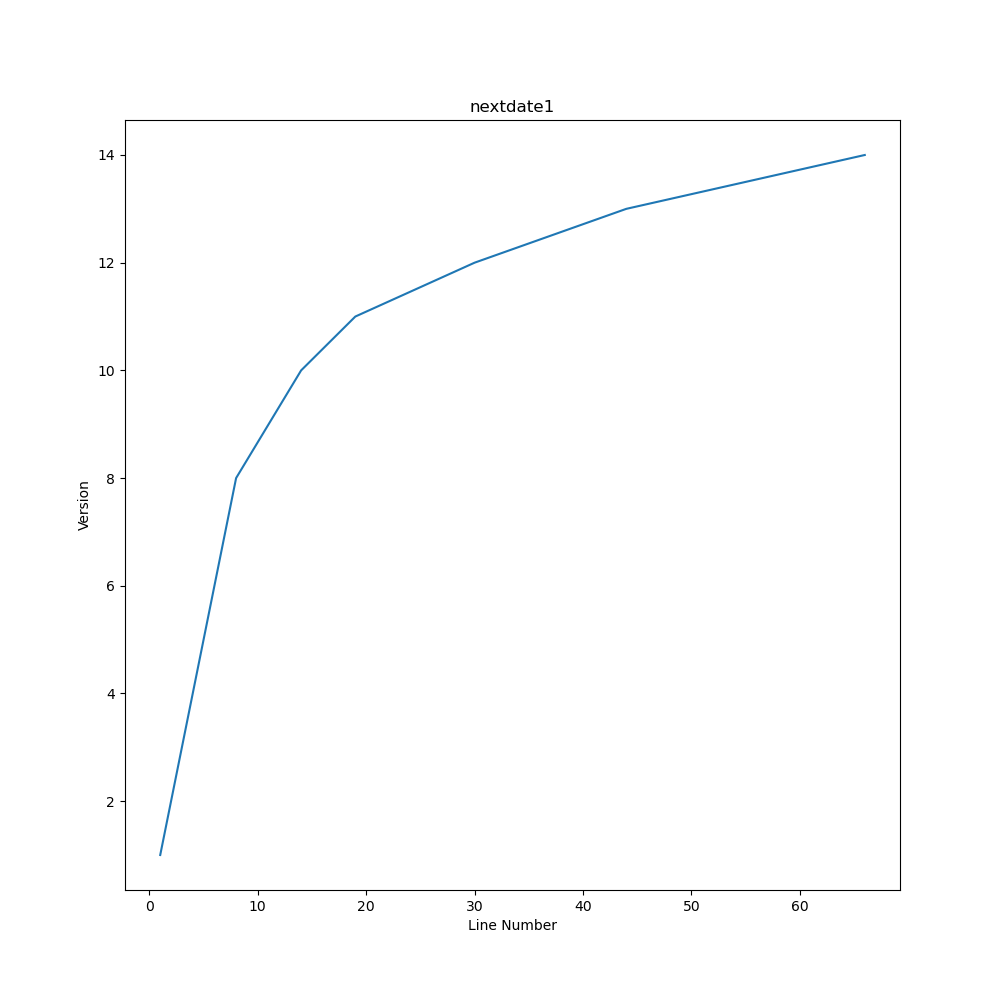
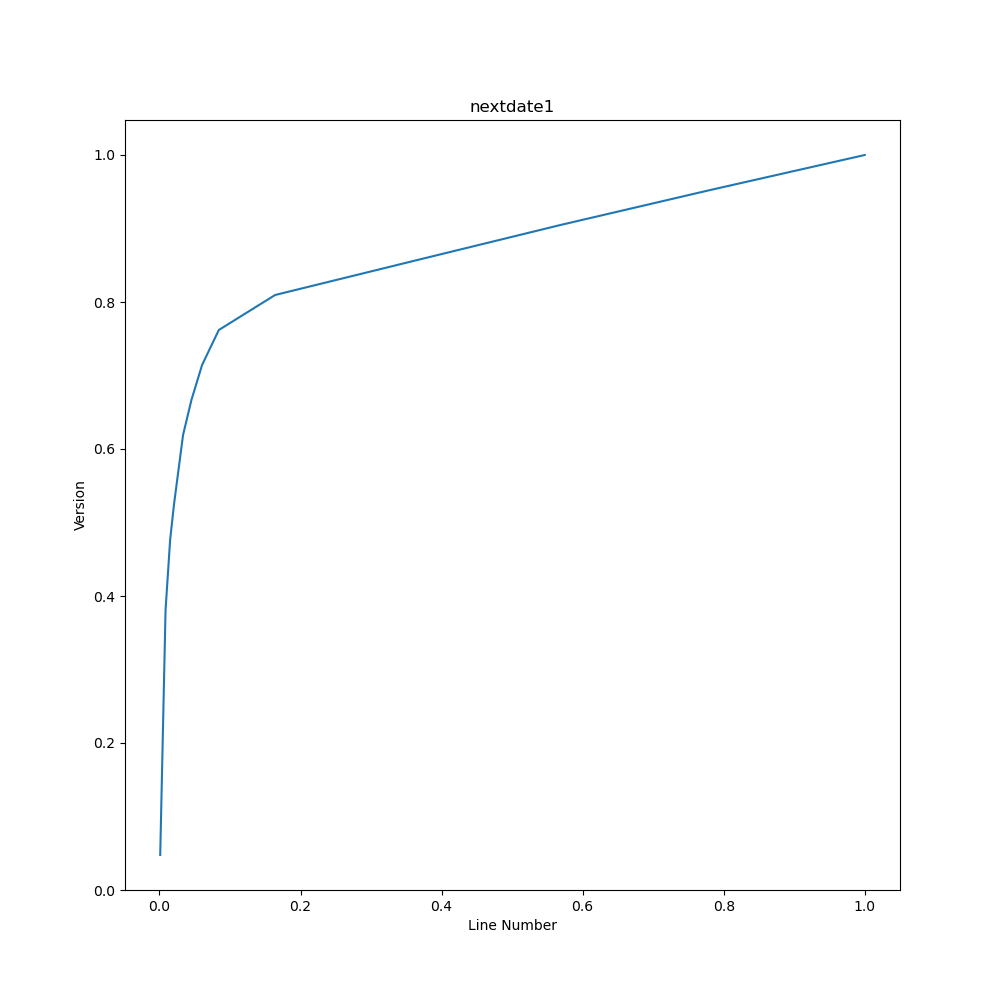
diff updated

diff --git a/diff.py b/diff.py
@@ -6,7 +6,7 @@ import matplotlib.pyplot as plt
 import numpy as np
 
 def plot(filename):
-    df = ps.read_csv(f'./output/{filename}.csv')
+    df = ps.read_csv(f'./output/final_output.csv')
     df.sort_values(df.columns[1],axis=0,inplace=True)
 
     # cummulative value of x
@@ -17,7 +17,7 @@ def plot(filename):
 
     plt.figure(figsize=(10,10))
     y_plot = np.array(range(1,len(df)+1))
-    plt.plot(df[df.columns[1]]/df[df.columns[1]].iloc[-1],y_plot/len(y_plot))
+    plt.scatter(df[df.columns[1]]/df[df.columns[1]].iloc[-1],y_plot/len(y_plot), s=10)
     plt.ylabel('Version')
     plt.xlabel('Line Number')
     plt.title(f'{filename}')
@@ -27,13 +27,11 @@ def plot(filename):
     print(df)
 
 def difference(problem_folder,problem_name,problem,error):
-    output_file = open(f'./output/{problem_name}.csv','w')
+    output_file = open(f'./output/final_output.csv','a')
     writer = csv.DictWriter(output_file,fieldnames=['ver','x','y'])
-    writer.writeheader()
+    # writer.writeheader()
     for versions in os.listdir(f"{problem_folder}_mutants"):
         version_no=versions[1:]
-        if(int(version_no)>14): 
-            continue
         cmh_score_file=f"cmh_output/{problem}cmh_score{version_no}.txt"
         version_diff_file=f"{problem_folder}_diff/v{version_no}.diff"
 
@@ -48,12 +46,40 @@ def difference(problem_folder,problem_name,problem,error):
                 continue
             line_no = int(line.split()[0])
             if diff_line_no - error <= line_no and line_no <= diff_line_no + error:
-                writer.writerow({'ver':int(version_no),'x':current_line_no,'y':line_no})
+                writer.writerow({'ver':int(version_no),'x':current_line_no,'y':locs[problem_name]})
                 break 
             current_line_no+=1
         score_file.close()
     output_file.close()
     plot(problem_name)
 
+
+def graph_plot():
+    df = ps.read_csv(f'./output/final_output.csv',)
+    df.sort_values(df.columns[1],axis=0,inplace=True)
+    print(df)
+    cur_val=df.values[1, 1]
+    print(df.shape)
+    val=0
+    n=0
+    n1 = 0
+    x=[0]
+    y=[0]
+    for i in range(len(df)):
+        if df.values[i, 1] != cur_val:
+            cur_val=df.values[i, 1]
+            y.append((n/len(df))*100)
+            x.append((val/n1)*100)
+            val = 0
+            n1=0
+        n+=1
+        n1+=1
+        val+=df.values[i, 1]/df.values[i, 2]
+    plt.plot(x,y)
+    plt.scatter(x, y, s=20, color = 'red')
+    plt.show()
+
+
 # difference(problem_folder,problem_name,problem,5)
-plot("finaloutput")
+# plot("final_output")
+graph_plot()

diff --git a/others/dstar.py b/others/dstar.py
@@ -78,8 +78,8 @@ def dstar():
 
 def main(argc, argv):
     parser = argparse.ArgumentParser(description='dstar algorithm implementation')
-    parser.add_argument("-d", "--directory", help="The directory of coverage result.", default="~/Desktop/CHMFL/cmh_output/quicksort/", metavar = "Coverage Directory")
-    parser.add_argument("-b", "--binary", help="Target binary.", default="~/Desktop/CHMFL/cmh_output/a.out", required = True, metavar = "Binary")
+    parser.add_argument("-d", "--directory", help="The directory of coverage result.", default="~/Desktop/CHMFL/NTS_Repo/quicksort/quicksort_gcov/v1/1", metavar = "Coverage Directory")
+    parser.add_argument("-b", "--binary", help="Target binary.", default="quicksort.c.gcov", required = True, metavar = "Binary")
     args = parser.parse_args()
     BINARY = args.binary
     LOGPATH = args.directory

diff --git a/config.py b/config.py
@@ -3,9 +3,17 @@ import os
 import glob
 
 
+locs ={
+    'Problem1':431,
+    'quicksort':99,
+    'cfg_test':93,
+    'merge_2_bst':226,
+    'nextdate1':204,
+}
+
 root_folder = 'NTS_Repo/'
-problem = 'Problem1/'
-problem_name = 'Problem1'
+problem = 'quicksort/'
+problem_name = 'quicksort'
 problem_folder = root_folder+problem+problem_name
 
 mutant_folder = problem_folder +'_mutants'
